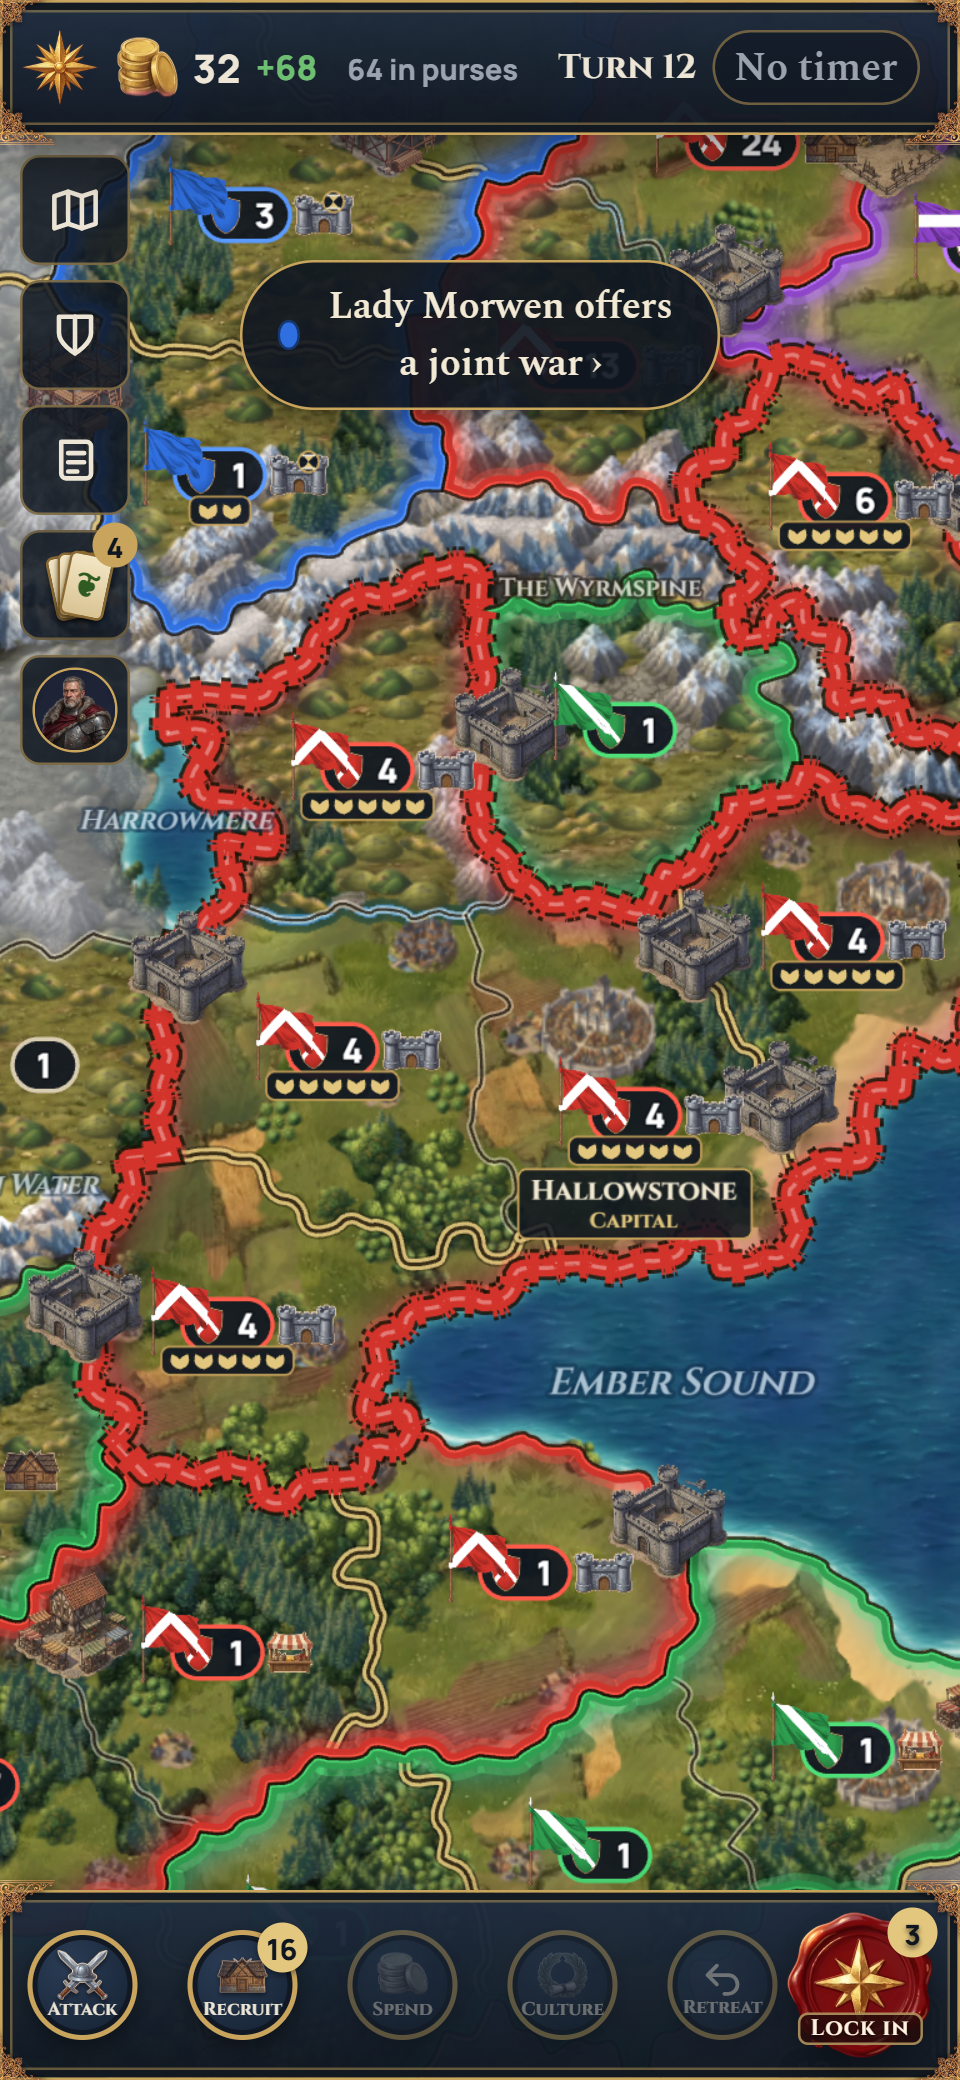
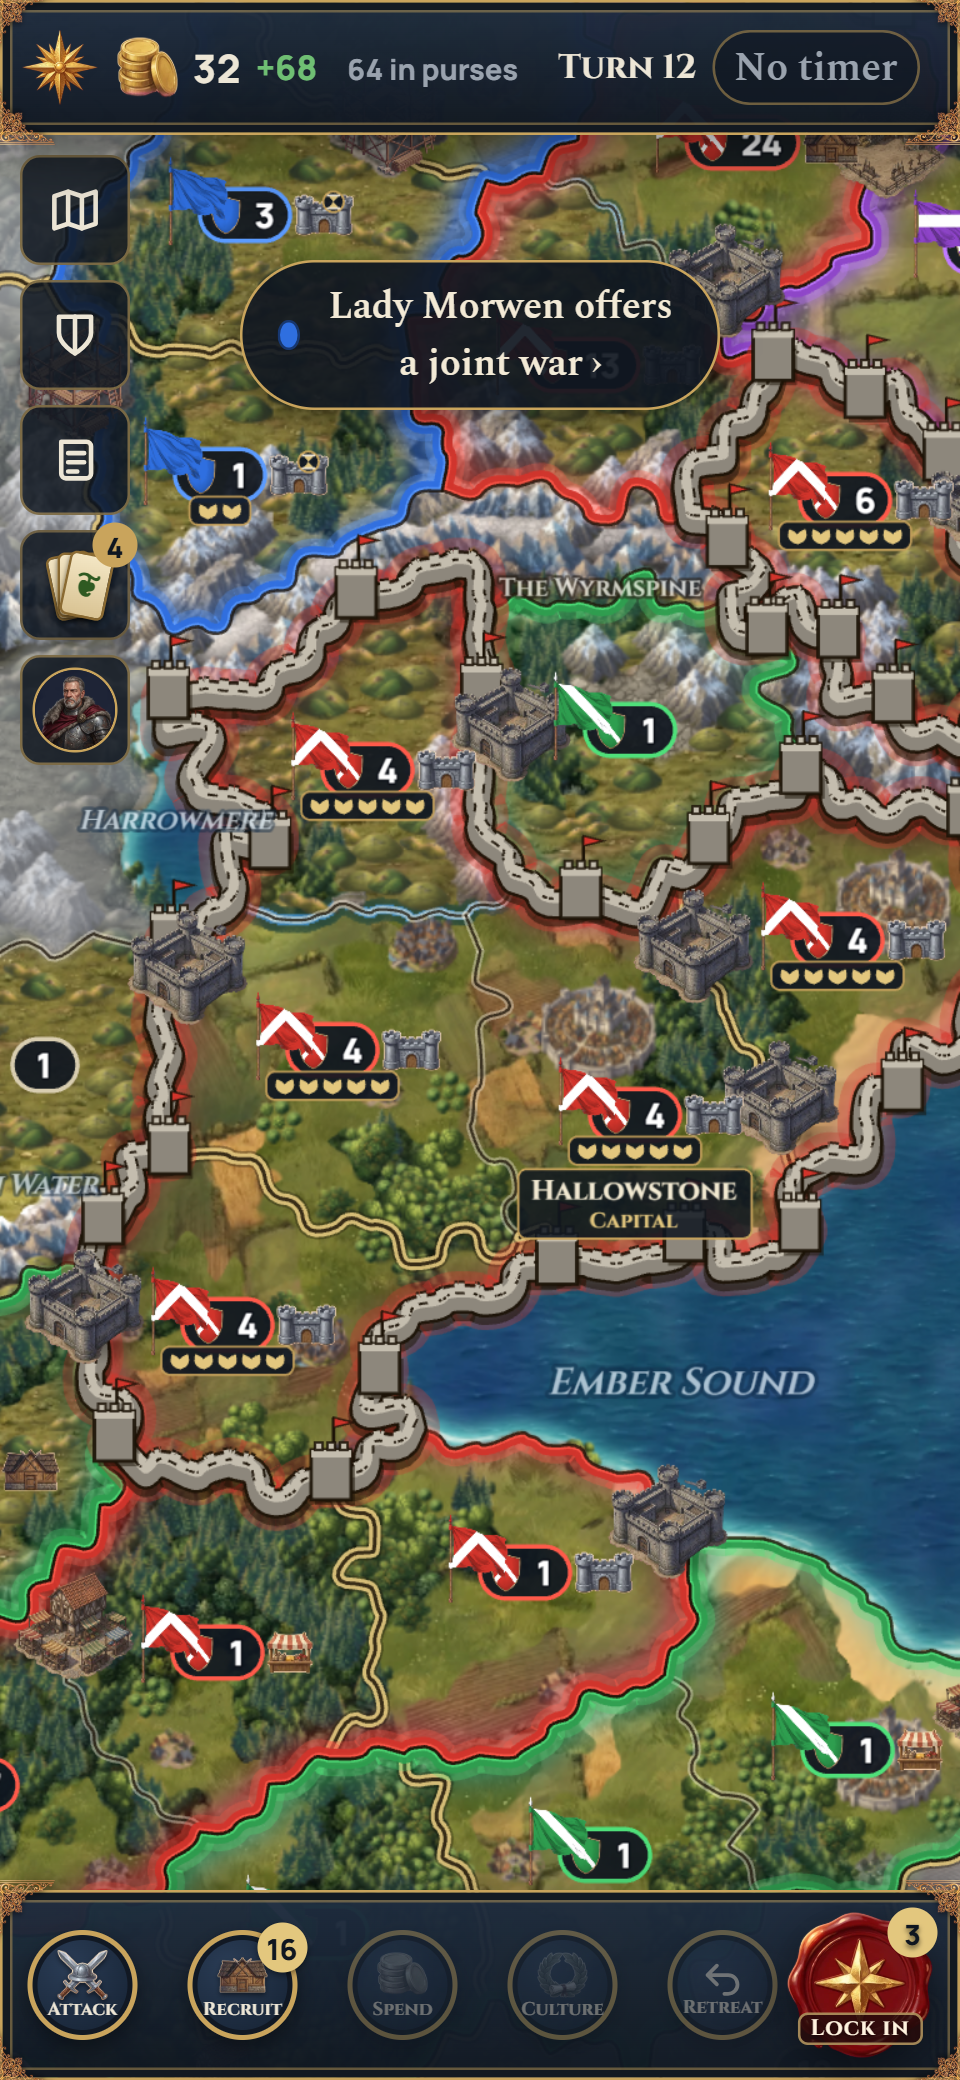
Walls on the map in Nate's style: grey stone standing off the land (shadow, face, lit top), battlements, square towers at corners and along long stretches with pennants in the House colour, the House's glow round it; greyed when remembered. Screenshots re-taken.

Changed region(s): [[0.0625, 0.1562, 1.0, 0.75]]

diff --git a/apps/web/src/render/pixi/info.ts b/apps/web/src/render/pixi/info.ts
@@ -19,6 +19,43 @@ import { RealmLayer } from "./realms";
  */
 
 const GOLD = 0xc9a45c, GOLD_HI = 0xe3c77e, ATTACK = 0xc2553f, MOVE = 0x3a72c4, INK = 0x1b1206;
+/** The walls' stone (session 20b). */
+const STONE = 0x8d877c, STONE_LIGHT = 0xc4bdae;
+
+/**
+ * Where a wall's towers stand along one of its lines (map units): at its corners (a turn of 40 degrees or more), at
+ * least 44 screen pixels apart, and along any straight stretch longer than 140 pixels.
+ */
+export function towerSpots(l: Line, px: number): { x: number; y: number }[] {
+  const p = l as number[];
+  const n = p.length / 2;
+  const out: { x: number; y: number }[] = [];
+  const minGap = 44 * px, maxGap = 140 * px;
+  const closed = n > 2 && Math.hypot(p[0]! - p[2 * n - 2]!, p[1]! - p[2 * n - 1]!) < 1e-6;
+  let since = closed ? maxGap / 2 : minGap;
+  for (let i = 1; i < n; i++) {
+    const x0 = p[2 * i - 2]!, y0 = p[2 * i - 1]!, x1 = p[2 * i]!, y1 = p[2 * i + 1]!;
+    const seg = Math.hypot(x1 - x0, y1 - y0);
+    // Along a long stretch: a tower every `maxGap`.
+    let at = 0;
+    while (seg > 0 && since + (seg - at) >= maxGap) {
+      at += maxGap - since;
+      out.push({ x: x0 + ((x1 - x0) * at) / seg, y: y0 + ((y1 - y0) * at) / seg });
+      since = 0;
+    }
+    since += seg - at;
+    // At a corner (the next segment turns 40 degrees or more).
+    const j = i + 1 < n ? i + 1 : closed ? 1 : -1;
+    if (j < 0) continue;
+    const ax = x1 - x0, ay = y1 - y0, bx = p[2 * j]! - x1, by = p[2 * j + 1]! - y1;
+    const turn = Math.abs(Math.atan2(ax * by - ay * bx, ax * bx + ay * by));
+    if (turn >= (40 * Math.PI) / 180 && since >= minGap) {
+      out.push({ x: x1, y: y1 });
+      since = 0;
+    }
+  }
+  return out;
+}
 /** A building sprite's width (about twice session 8's 26, a touch bigger than a capital's castle), and a figure's, in map units. */
 const BUILDING_SIZE = 48, FIGURE_SIZE = 20;
 /** Roughly how far an army marker reaches from its territory's label point, in screen px (pill, banner, icons). */
@@ -172,7 +209,12 @@ export class InfoLayer {
     this.wallRings = walls.map((w) => ({ color: w.remembered ? 0x8a8a8a : hexNum(houseOf(view, w.owner).color), remembered: w.remembered, outlines: outlines.get(w.key) ?? [] }));
   }
 
-  /** The walls, in screen pixels: dark stone under a band of the House colour, merlons along it from Mid in. */
+  /**
+   * The walls, in screen pixels (Nate's picture, session 20b): a glow of the House colour, a grey stone wall standing up
+   * off the land (its shadow, its face, a lit top), and from Mid in its battlements, square towers at the corners and
+   * along long stretches, each flying a pennant in the House colour. A wall you only remember is grey all through.
+   * Drawn in code until a painted wall piece and tower come in an art batch.
+   */
   private drawWalls(px: number) {
     const W = this.walls;
     W.clear();
@@ -180,20 +222,39 @@ export class InfoLayer {
       for (const w of this.wallRings) for (const l of w.outlines) ring(W, l, false).stroke({ width: 4 * px, color: w.remembered ? 0x6a6a6a : INK, alpha: 0.95, join: "miter", cap: "butt" });
       return;
     }
+    const up = (l: Line, dy: number): Line => (l as number[]).map((v, i) => (i % 2 ? v - dy : v));
+    const towers: { x: number; y: number; col: number; a: number }[] = [];
     for (const w of this.wallRings) {
       const a = w.remembered ? 0.6 : 1;
-      const col = w.remembered ? 0x8a8a8a : w.color;
+      const stone = w.remembered ? 0x9a9a9a : STONE, top = w.remembered ? 0xb8b8b8 : STONE_LIGHT;
       for (const l of w.outlines) {
-        // A solid band of the House colour edged in ink (a truce's band is white and stitched: never mistaken for it).
-        ring(W, l, false).stroke({ width: 10 * px, color: INK, alpha: 0.85 * a, join: "miter", cap: "butt" });
-        ring(W, l, false).stroke({ width: 7 * px, color: col, alpha: a, join: "miter", cap: "butt" });
-        ring(W, l, false).stroke({ width: 1.6 * px, color: 0xffffff, alpha: 0.35 * a, join: "miter", cap: "butt" });
-        // Battlements (Mid and Near): square merlons standing out on both sides, in the House colour, outlined in ink.
+        // The House's glow round it, then the wall: a shadow on the land, its face, and the lit top a little higher.
+        ring(W, l, false).stroke({ width: 22 * px, color: w.color, alpha: 0.32 * a, join: "round", cap: "round" });
+        ring(W, up(l, -2.5 * px), false).stroke({ width: 13 * px, color: INK, alpha: 0.55 * a, join: "round", cap: "round" });
+        ring(W, l, false).stroke({ width: 12 * px, color: INK, alpha: 0.9 * a, join: "round", cap: "round" });
+        ring(W, l, false).stroke({ width: 9.5 * px, color: stone, alpha: a, join: "round", cap: "round" });
+        ring(W, up(l, 2.5 * px), false).stroke({ width: 4 * px, color: top, alpha: a, join: "round", cap: "round" });
         if (this.battlements > 0.02) {
-          stitches(W, l, 5 * px, 6 * px, 15 * px, INK, 0.85 * a * this.battlements);
-          stitches(W, l, 5 * px, 6 * px, 12 * px, col, a * this.battlements);
+          // Battlements: stone merlons along the top, each edged in ink.
+          const m = up(l, 4.5 * px);
+          stitches(W, m, 4 * px, 4 * px, 5.5 * px, INK, 0.9 * a * this.battlements);
+          stitches(W, m, 4 * px, 4 * px, 3.5 * px, top, a * this.battlements);
+          for (const t of towerSpots(l, px)) towers.push({ ...t, col: w.remembered ? 0x8a8a8a : w.color, a });
         }
       }
+    }
+    // Towers over the wall (drawn last so the wall never runs across one).
+    const T = 8 * px;
+    for (const t of towers) {
+      const k = t.a * this.battlements;
+      W.rect(t.x - T + 1.5 * px, t.y - T + 2 * px, 2 * T, 2 * T).fill({ color: INK, alpha: 0.5 * k });
+      W.rect(t.x - T, t.y - T - 4 * px, 2 * T, 2 * T + 4 * px).fill({ color: STONE, alpha: k }).stroke({ width: 1.4 * px, color: INK, alpha: 0.9 * k });
+      W.rect(t.x - T, t.y - T - 4 * px, 2 * T, 3 * px).fill({ color: STONE_LIGHT, alpha: k });
+      for (const dx of [-T + 1.5 * px, -1.5 * px, T - 4.5 * px]) W.rect(t.x + dx, t.y - T - 7 * px, 3 * px, 3 * px).fill({ color: STONE_LIGHT, alpha: k }).stroke({ width: 1 * px, color: INK, alpha: 0.85 * k });
+      // The pennant: a pole and a small flag in the House colour.
+      const px0 = t.x + 1 * px, py0 = t.y - T - 7 * px;
+      W.moveTo(px0, py0).lineTo(px0, py0 - 10 * px).stroke({ width: 1.3 * px, color: INK, alpha: k });
+      W.poly([px0, py0 - 10 * px, px0 + 8 * px, py0 - 8 * px, px0, py0 - 6 * px]).fill({ color: t.col, alpha: k }).stroke({ width: 0.8 * px, color: INK, alpha: 0.8 * k });
     }
   }
 
